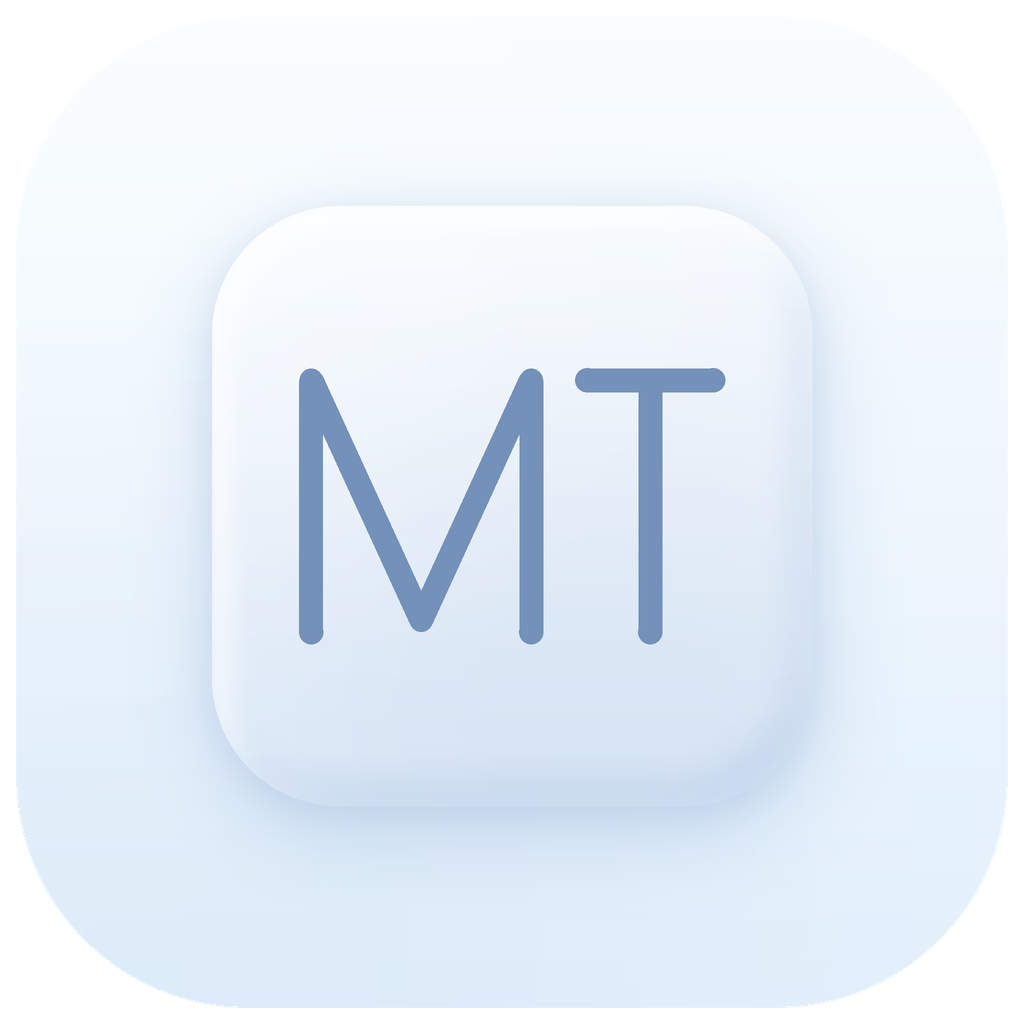
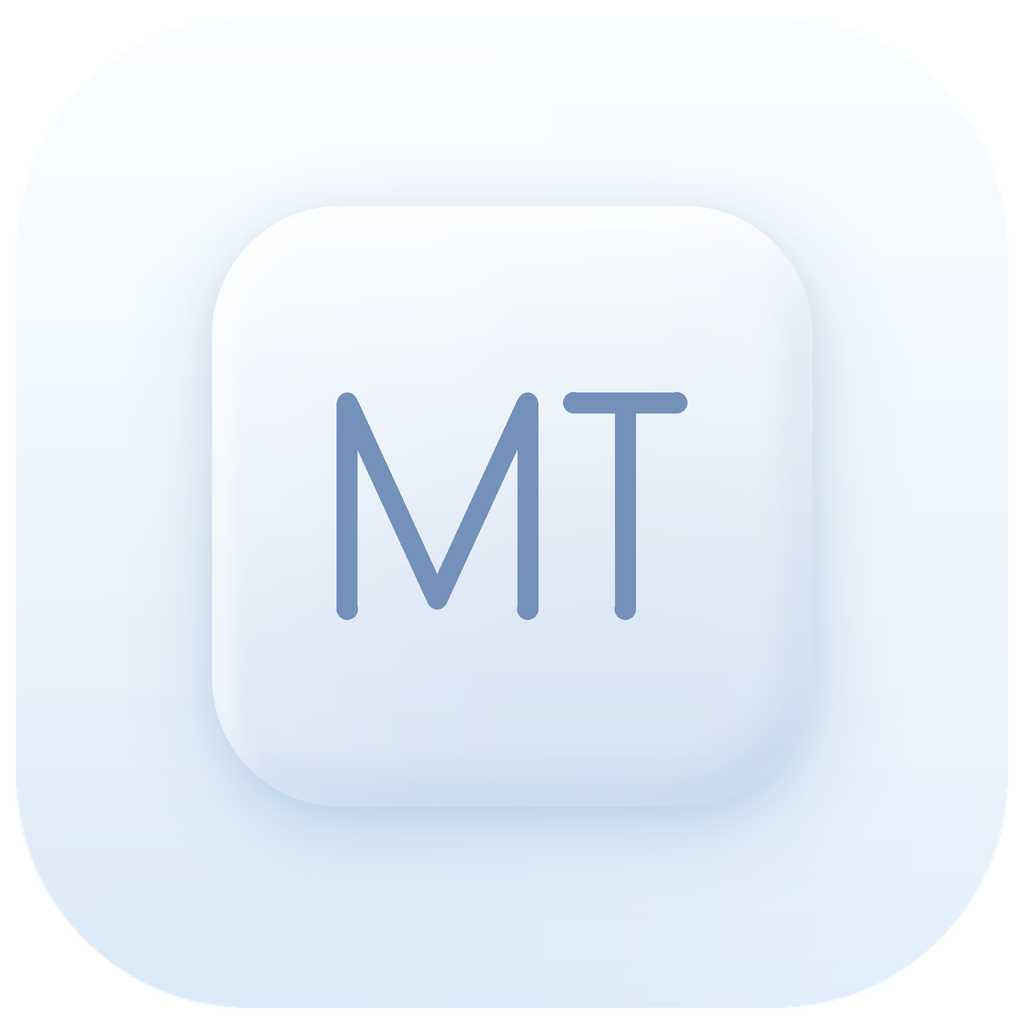
缩小图标中的 MT 字标

Changed region(s): [[0.2812, 0.3438, 0.7188, 0.625]]

diff --git a/tool/generate_launcher_icon.py b/tool/generate_launcher_icon.py
@@ -24,7 +24,8 @@ OUTER_INSET = 16          # 1024 坐标系下的边距
 OUTER_RADIUS = 232
 PLATE_BOX = (212, 206, 812, 806)
 PLATE_RADIUS = 128
-STROKE = 24
+LETTER_SCALE = 0.82   # 字标相对面板中心的缩放
+LETTER_STROKE = 21
 
 M_PATH = [(311, 632), (311, 380), (421, 620), (531, 380), (531, 632)]
 T_BAR = [(587, 380), (713, 380)]
@@ -126,10 +127,15 @@ def render_letters(scale=1.0):
     """单线描边的 MT 字标，圆头圆角，和参考图的线性图标一致。"""
     k = WORK / CANVAS
     _, _, point = plate_geometry(scale)
-    stroke = max(1, int(STROKE * scale * k))
+    stroke = max(1, int(LETTER_STROKE * scale * k))
+
+    def letter_point(x, y):
+        lx = 512 + (x - 512) * LETTER_SCALE
+        ly = 506 + (y - 506) * LETTER_SCALE
+        return point(lx, ly)
 
     def path(points):
-        return [tuple(v * k for v in point(x, y)) for x, y in points]
+        return [tuple(v * k for v in letter_point(x, y)) for x, y in points]
 
     layer = Image.new("RGBA", (WORK, WORK), (0, 0, 0, 0))
     draw = ImageDraw.Draw(layer)
@@ -137,7 +143,7 @@ def render_letters(scale=1.0):
         draw.line(path(points), fill=LINE + (255,), width=stroke, joint="curve")
     # PIL 的线段是平头，补圆点模拟圆头。
     for x, y in (M_PATH[0], M_PATH[-1], T_BAR[0], T_BAR[-1], T_STEM[-1]):
-        cx, cy = point(x, y)
+        cx, cy = letter_point(x, y)
         cx, cy = cx * k, cy * k
         r = stroke / 2
         draw.ellipse((cx - r, cy - r, cx + r, cy + r), fill=LINE + (255,))
